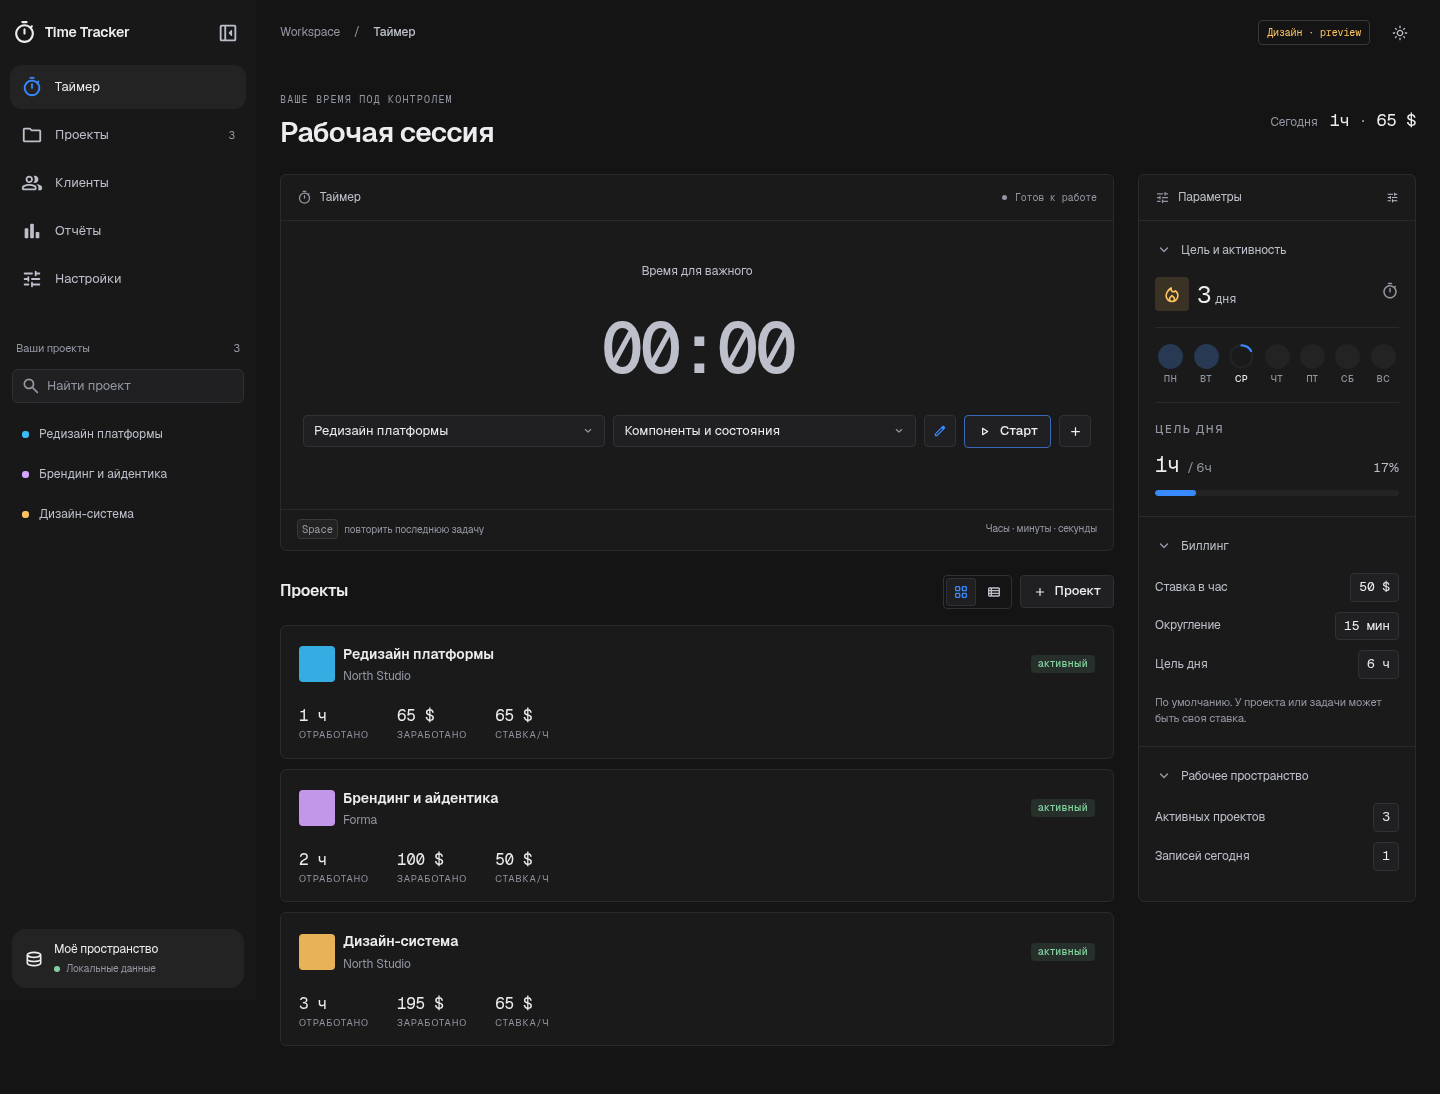
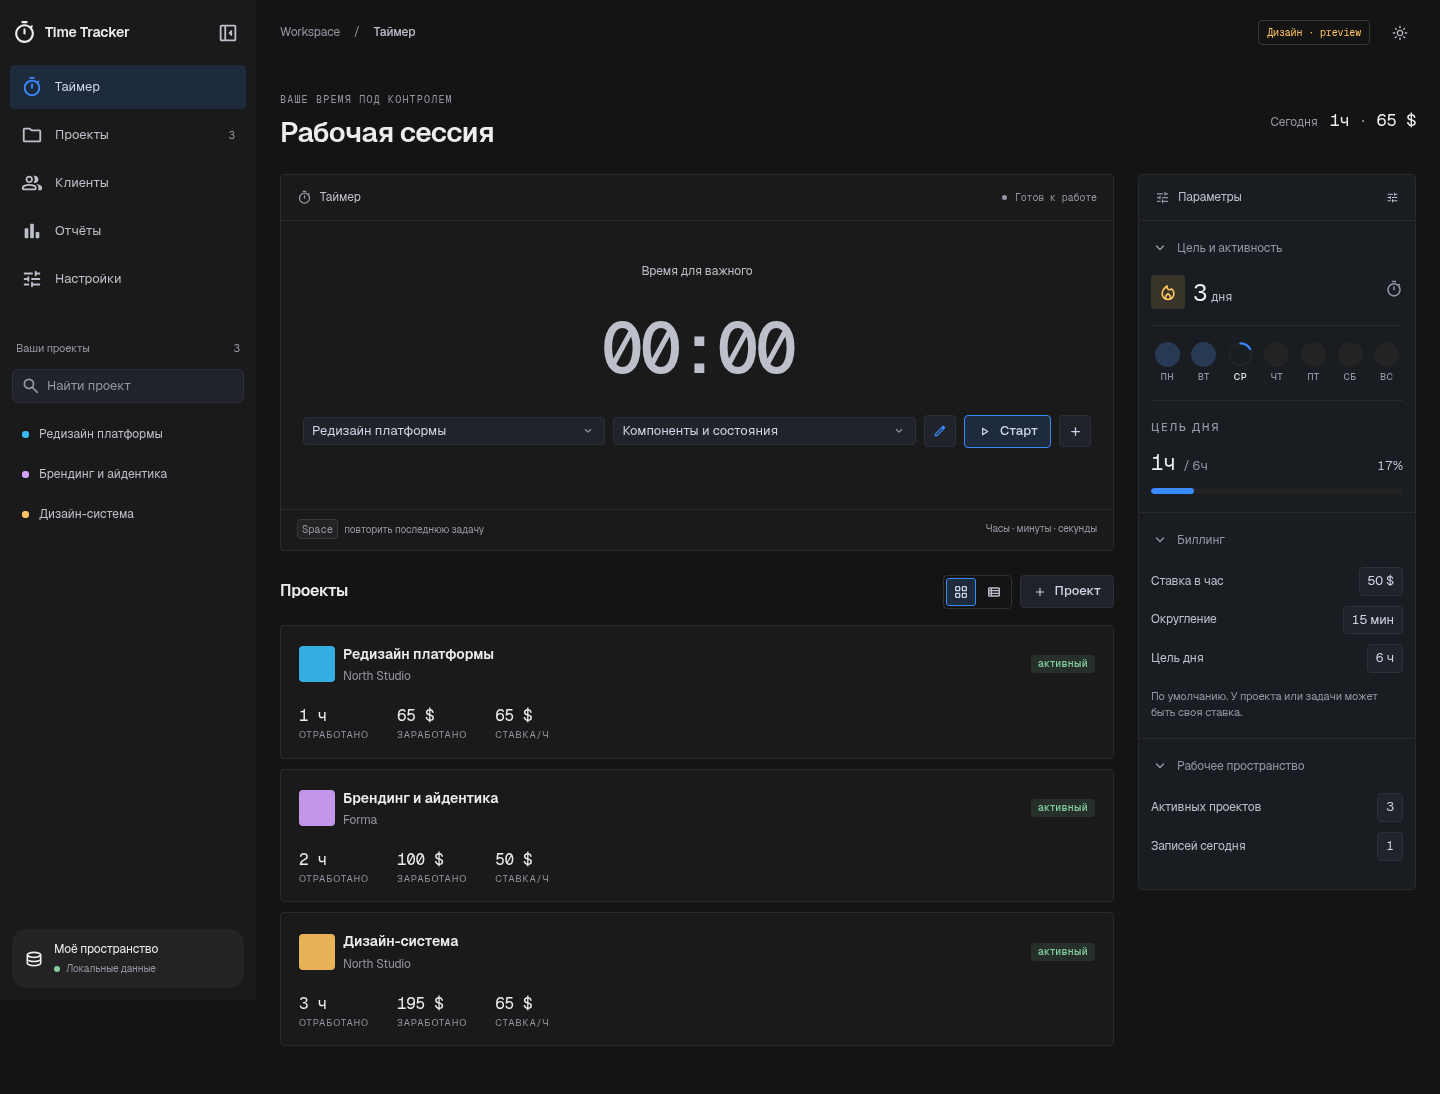
Align all control variants with supplied Shaders inspector reference

diff --git a/src/editor-controls.css b/src/editor-controls.css
@@ -1,21 +1,15 @@
 /* Compact controls inspired by the supplied Shaders editor screenshot.
    Material Symbols supply icon geometry only, not the component styling. */
+@import './control-tokens.css';
+
 :root,
 :root[data-theme='dark'] {
-  --sidebar-surface: #181819;
-  --control: #202022;
-  --control-hover: #29292d;
-  --control-border: #303036;
-  --control-border-hover: #4a4b54;
-  --control-radius: 4px;
-  --panel-radius: 6px;
+  --sidebar-surface: #1a1a1a;
+  --inspector-surface: #191c21;
 }
 :root[data-theme='light'] {
   --sidebar-surface: #e9eaed;
-  --control: #ededef;
-  --control-hover: #e3e4e8;
-  --control-border: #d1d3d9;
-  --control-border-hover: #a4a8b2;
+  --inspector-surface: #f3f4f7;
 }
 .btn {
   min-height: 32px;
@@ -23,7 +17,7 @@
   border: 1px solid var(--control-border);
   border-radius: var(--control-radius);
   background: var(--control);
-  color: var(--ink);
+  color: var(--control-ink);
   font-size: 13px;
   font-weight: 500;
   letter-spacing: 0;
@@ -43,17 +37,21 @@
   background: var(--page);
 }
 .btn-primary {
-  background: var(--control);
-  border-color: color-mix(in srgb, var(--accent) 65%, var(--control-border));
-  color: var(--ink);
+  background: var(--control-selected);
+  border-color: var(--accent);
+  color: var(--control-ink);
 }
 .btn-primary:hover:not(:disabled) {
   background: color-mix(in srgb, var(--accent) 12%, var(--control));
   border-color: var(--accent);
 }
 .btn-quiet,
-.btn-edit {
+.btn-edit,
+.btn-archive,
+.btn-warn,
+.btn-red {
   background: var(--control);
+  border-color: var(--control-border);
 }
 .btn-edit {
   color: var(--accent);
@@ -102,14 +100,15 @@ input:not([type='checkbox']),
 select,
 textarea,
 .select-btn {
-  min-height: 32px;
-  padding: 6px 10px;
+  min-height: 28px;
+  padding: 4px 8px;
   border: 1px solid var(--control-border);
   border-radius: var(--control-radius);
   background: var(--control);
   line-height: 1.4;
   font-family: var(--font-body);
   font-size: 13px;
+  color: var(--control-ink);
 }
 input:not([type='checkbox']):hover,
 select:hover,
@@ -124,7 +123,7 @@ textarea:focus {
   box-shadow: none;
 }
 input[type='number'] {
-  font-family: var(--font-mono);
+  font-family: var(--font-body);
   font-variant-numeric: tabular-nums;
 }
 input[type='checkbox'] {
@@ -178,6 +177,7 @@ input[type='checkbox']:checked {
   border-color: var(--control-border-hover);
 }
 .today-inspector {
+  background: var(--inspector-surface);
   overflow: hidden;
 }
 .modal {
@@ -298,4 +298,86 @@ input[type='checkbox']:checked {
 .client-avatar,
 .empty-icon {
   border-radius: var(--control-radius);
+}
+
+/* Selected and semantic actions share the editor surface, including legacy variants. */
+.btn-play.running,
+.dp-day.selected,
+.view-toggle .btn.selected {
+  background: var(--control-selected);
+  border-color: var(--accent);
+  color: var(--control-ink);
+  box-shadow: none;
+}
+.btn-play.running:hover {
+  background: var(--control-hover);
+}
+.btn-ghost:not(.btn-icon) {
+  background: var(--control);
+  border-color: var(--control-border);
+}
+.btn-ghost:not(.btn-icon):hover:not(:disabled) {
+  background: var(--control-hover);
+  border-color: var(--control-border-hover);
+}
+.btn-play {
+  width: 32px;
+  height: 32px;
+  padding: 6px;
+}
+.workspace-nav-item,
+.sidebar-project,
+.update-banner-x,
+.swatch {
+  border-radius: var(--control-radius);
+}
+.workspace-nav-item.active {
+  background: var(--control-selected);
+  color: var(--control-ink);
+}
+.workspace-nav-item:hover,
+.sidebar-project:hover,
+.update-banner-x:hover,
+.dp-day:hover {
+  background: var(--control-hover);
+}
+.swatch:hover {
+  transform: none;
+  border-color: var(--control-ink);
+}
+.update-banner-btn,
+.update-banner-btn.secondary {
+  min-height: 32px;
+  padding: 6px 12px;
+  background: var(--control);
+  color: var(--control-ink);
+  border: 1px solid var(--control-border);
+  border-radius: var(--control-radius);
+  font-size: 13px;
+  font-weight: 500;
+  transition: background 0.12s, border-color 0.12s;
+}
+.update-banner-btn:hover:not(:disabled) {
+  background: var(--control-hover);
+  border-color: var(--control-border-hover);
+  filter: none;
+}
+.update-banner-btn:active:not(:disabled) {
+  background: var(--page);
+}
+.update-banner-btn:disabled {
+  opacity: 0.4;
+  cursor: default;
+}
+.inspector-section {
+  padding: 18px 12px;
+}
+.inspector-section summary {
+  color: var(--muted);
+}
+.inspector-property strong {
+  min-height: 28px;
+  font-family: var(--font-body);
+  font-variant-numeric: tabular-nums;
+  color: var(--control-ink);
 }

diff --git a/src/popover/popover.css b/src/popover/popover.css
@@ -1,3 +1,5 @@
+@import '../control-tokens.css';
+
 /* Popover меню-бара: контент поверх системной vibrancy, фон окна прозрачный */
 
 :root,
@@ -118,7 +120,7 @@ body {
   text-transform: uppercase;
   letter-spacing: 0.08em;
   color: var(--ink-2);
-  border: 1px solid var(--hairline);
+  border: 1px solid var(--control-border);
   border-radius: 4px;
   padding: 2.5px 7px;
 }
@@ -136,48 +138,49 @@ body {
   display: inline-flex;
   align-items: center;
   justify-content: center;
-  width: 34px;
-  height: 34px;
-  border: 1px solid var(--hairline);
+  width: 32px;
+  height: 32px;
+  border: 1px solid var(--control-border);
   border-radius: 4px;
   cursor: pointer;
   color: var(--ink);
-  background: var(--btn-bg);
-  transition: background 0.12s, transform 0.12s;
+  background: var(--control);
+  transition: background 0.12s, border-color 0.12s;
 }
 .popover-btn:hover {
-  background: var(--btn-bg-hover);
+  background: var(--control-hover);
 }
 .popover-btn:active {
-  transform: scale(0.94);
+  background: var(--control-selected);
 }
 .popover-btn.primary {
-  background: var(--btn-bg);
+  background: var(--control-selected);
   border-color: var(--accent);
   color: var(--ink);
 }
 .popover-btn.primary:hover {
-  filter: brightness(1.08);
+  background: var(--control-hover);
 }
 .popover-btn.danger {
-  background: var(--danger-bg);
+  background: var(--control);
   color: var(--danger);
 }
 
 .popover-open {
   margin-left: auto;
-  border: 1px solid var(--hairline);
+  border: 1px solid var(--control-border);
   border-radius: 4px;
-  padding: 8px 14px;
+  min-height: 32px;
+  padding: 6px 12px;
   font-family: inherit;
-  font-size: 11.5px;
-  color: var(--ink-2);
-  background: var(--btn-bg);
+  font-size: 13px;
+  color: var(--control-ink);
+  background: var(--control);
   cursor: pointer;
   transition: background 0.12s, color 0.12s;
 }
 .popover-open:hover {
-  background: var(--btn-bg-hover);
+  background: var(--control-hover);
   color: var(--ink);
 }
 .popover-open.wide {

diff --git a/src/control-tokens.css b/src/control-tokens.css
@@ -1,0 +1,21 @@
+/* Shared by the main window and tray popover.
+   Visually matched to the user-supplied Shaders inspector capture, not extracted CSS. */
+:root,
+:root[data-theme='dark'] {
+  --control: #202329;
+  --control-hover: #292e37;
+  --control-selected: #1d2b3d;
+  --control-border: #2b303a;
+  --control-border-hover: #485363;
+  --control-ink: #cdd5e6;
+  --control-radius: 4px;
+  --panel-radius: 4px;
+}
+:root[data-theme='light'] {
+  --control: #ededef;
+  --control-hover: #e3e4e8;
+  --control-selected: #e0eafa;
+  --control-border: #d1d3d9;
+  --control-border-hover: #a4a8b2;
+  --control-ink: #293344;
+}

diff --git a/docs/DESIGN_PREVIEW.md b/docs/DESIGN_PREVIEW.md
@@ -12,7 +12,9 @@
 - Общие стили проектов, клиентов, детализации, отчётов, настроек, модальных окон и popover.
 - Светлая тема, видимый фокус, нативные select, клавиатурное открытие карточек, связанные с полями подписи, reduced motion.
 - Локальные переменные шрифты Geist и Geist Mono с кириллицей. Семейства подобраны под направление Shaders; точные CSS сайта недоступны в этой среде, совпадение с текущим сайтом не утверждается.
-- Контролы по визуальному референсу Shaders Editor: прямоугольные кнопки и заполненные графитовые поля высотой 32 px, скругления 4 px, тонкие границы, компактные переключатели и диалоги. Синий акцент используется для выделения и фокуса. Google Material Symbols используются только для иконок; оформление Material 3 удалено.
+- Контролы по визуальному референсу Shaders Editor: прямоугольные кнопки и заполненные графитовые поля высотой 28 px (кнопки — 32 px), скругления 4 px, тонкие границы, компактные переключатели и диалоги. Синий акцент используется для выделения и фокуса. Google Material Symbols используются только для иконок; оформление Material 3 удалено.
+- Уточнение по новому скриншоту пользователя: холодные графитовые контролы, приглушённый светлый текст, прямоугольные цветовые образцы и выбранные элементы. Общие токены для главного окна и popover; устранены отдельные заливки running/archive/update/sync-кнопок. Hover/pressed — согласованные состояния реализации: по статичному скриншоту их точное совпадение проверить нельзя.
+- Актуальный референс: [панель Transform / Colors / Position](https://shaders.com/design-editor/3d104575-2609-4e3c-9525-fd3f7aa07c60), предоставленная пользователем через браузерный комментарий. Синяя рамка комментария не является стилем приложения.
 - Дополнительный референс: [указанный редактор](https://shaders.com/design-editor/b221e122-419d-4a0e-99b4-5072ac448369). Доступ из среды возвращает HTTP 403, поэтому стили воссозданы по исходному скриншоту пользователя, а не скопированы из недоступного проекта.
 - 31 официальный SVG Material Symbols Rounded из репозитория Google вместо прежних иконок, включая popover и favicon. Исходная ревизия и лицензия — `src/assets/material-symbols/NOTICE.md`; лицензии также входят в `dist/licenses`.
 
